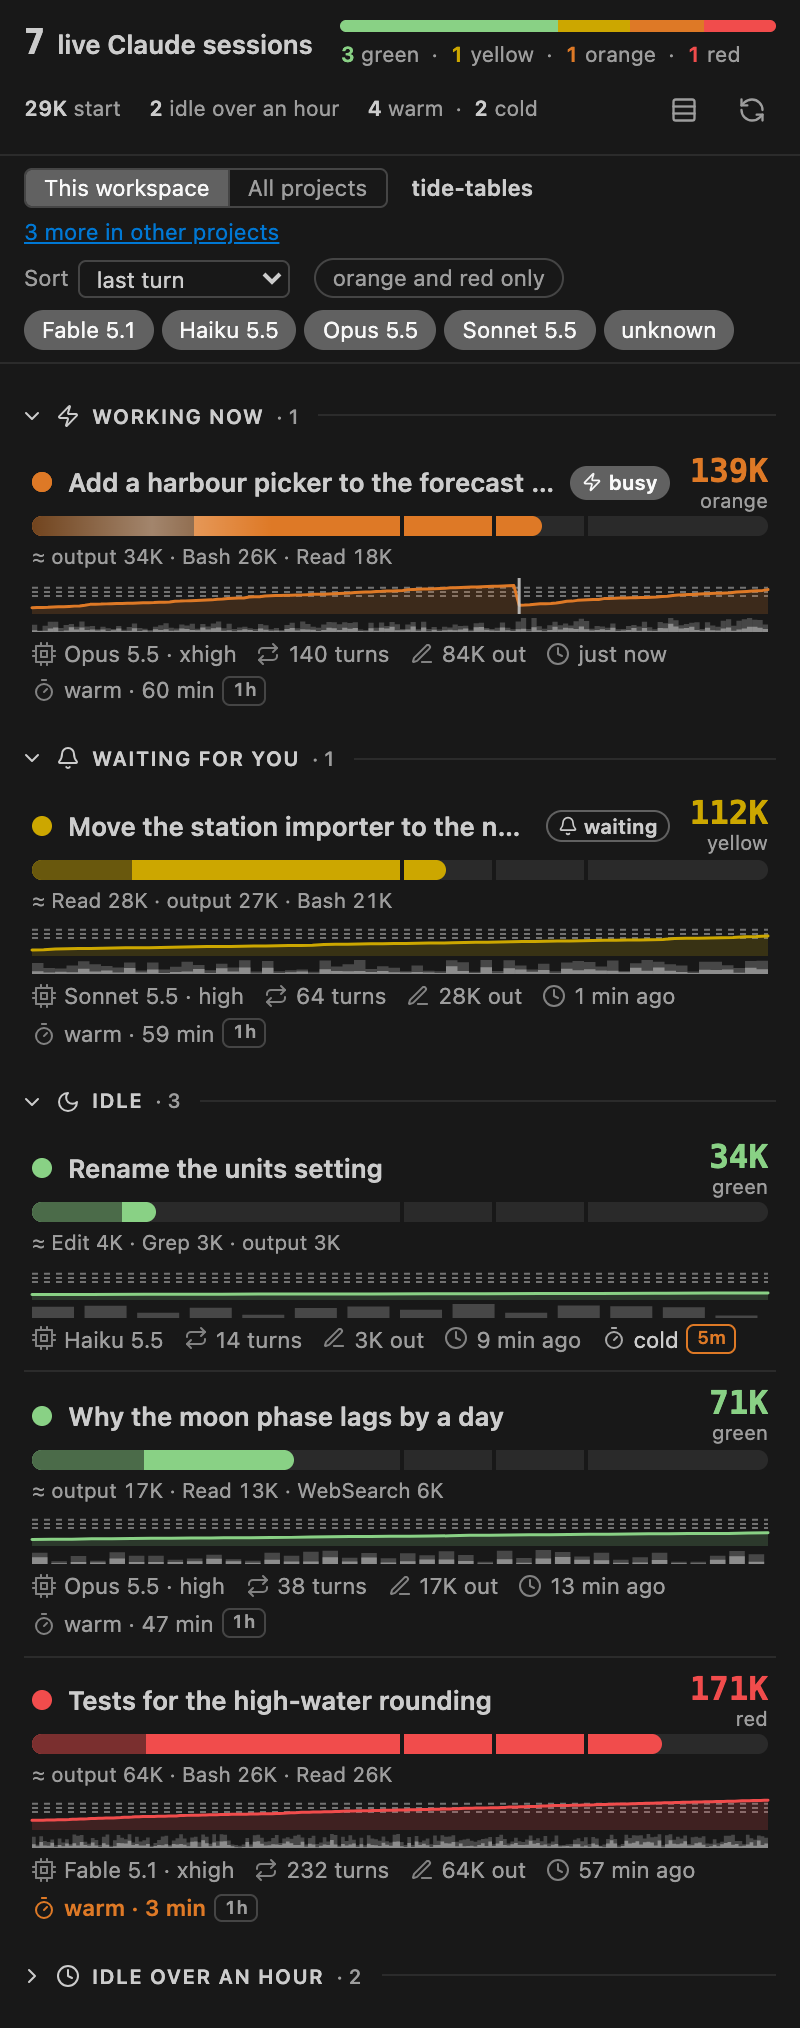
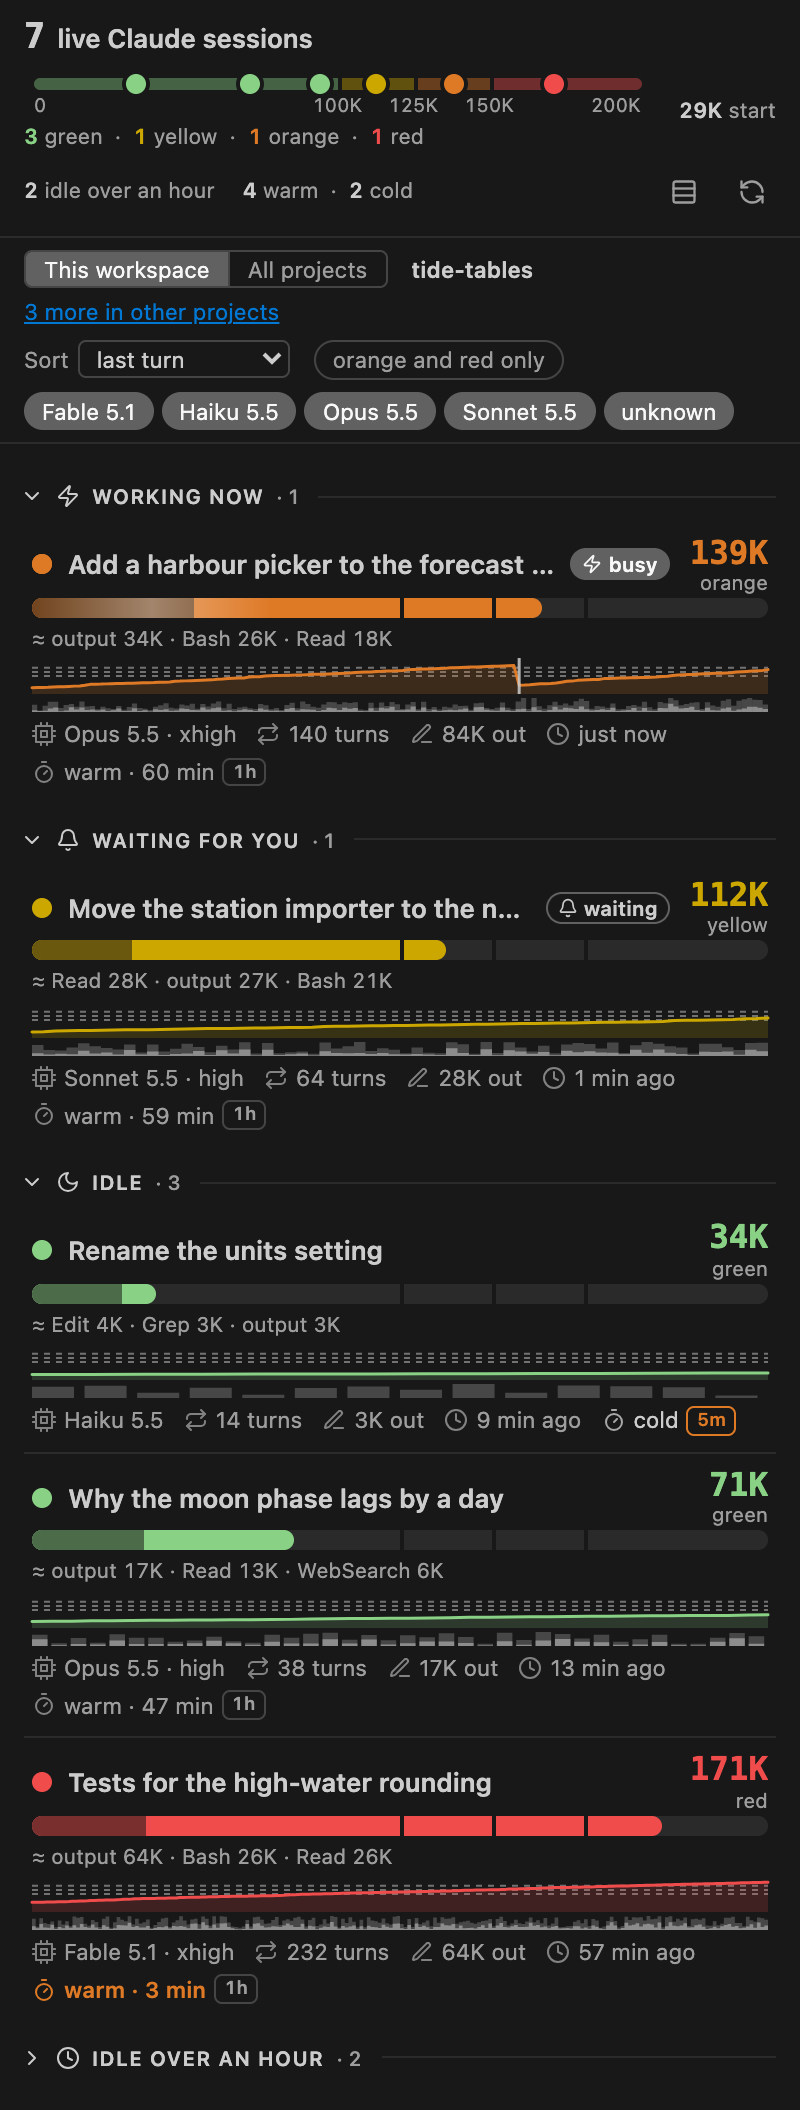
#54 The header shows the zones as a 0–200K scale with each listed session marked on it
The header's meter counted sessions per zone with widths that were shares of sessions, so the panel never showed
where the zones begin and end; the limits were only in a row bar's tooltip and the detail view. The meter bar is
replaced by a scale strip: the row bar's 0–200K with each zone as a muted band at its true width, the limits
labelled under it, and a dot per listed session with a known count, at its count and in its zone colour (a count
above 200K sits at the end over a hatched end). A band's tooltip gives the zone's range and its advice, which the
core now sends with the list as zoneAdvice; a dot's names the session and its count. The dots follow the scope,
not the view's filters, like every header counter. The strip is one image to assistive technology, its label
naming the limits and the counts per zone.

The meter had a fixed min-width narrower than its nowrap legend, so in the sidebar the start median drew over
"1 red". Without it the item is at least as wide as its legend and the counters wrap instead. The labels drop
every second one a row under about 280 px, and the strip stops growing at 520 px.

Version 0.22.0.

Changed region(s): [[0.0312, 0.0, 0.9688, 0.9941], [0.3438, 0.963, 0.375, 0.9941]]

diff --git a/panel.html b/panel.html
@@ -22,14 +22,14 @@
        a third-opaque orange that reads brown over a dark side bar. Halfway between the theme's yellow and red instead. */
     --kx-orange: color-mix(in srgb, var(--kx-yellow) 50%, var(--kx-red));
     --kx-red: var(--vscode-charts-red, #cf222e);
-    /* … and for fills (dot, context bar, curve, meter segments), so text and fill can differ per use.
+    /* … and for fills (dot, context bar, curve, zone scale), so text and fill can differ per use.
        Every zone in ZONES below has a pair --kx-<zone> / --kx-<zone>-fill; adding a zone adds a pair here. */
     --kx-green-fill: var(--vscode-charts-green, var(--kx-green));
     --kx-yellow-fill: var(--vscode-charts-yellow, var(--kx-yellow));
     --kx-orange-fill: color-mix(in srgb, var(--kx-yellow-fill) 50%, var(--kx-red-fill));
     --kx-red-fill: var(--vscode-charts-red, var(--kx-red));
     --kx-grid: var(--vscode-charts-lines, color-mix(in srgb, var(--kx-muted) 55%, transparent)); /* limit lines, marks */
-    --kx-track: color-mix(in srgb, var(--kx-fg) 10%, transparent); /* the track behind the bar and the meter */
+    --kx-track: color-mix(in srgb, var(--kx-fg) 10%, transparent); /* the track behind the bar */
     --kx-badge-bg: var(--vscode-badge-background, var(--vscode-focusBorder, #0969da));
     --kx-badge-fg: var(--vscode-badge-foreground, #ffffff);
     --kx-heading: var(--vscode-sideBarSectionHeader-foreground, var(--kx-muted));
@@ -47,7 +47,7 @@
     container-type: inline-size; /* the layout below follows the panel's width, not the window's */
   }
 
-  /* ── Header: the count, the zone meter and the counters ── */
+  /* ── Header: the count, the zone scale and the counters ── */
   header {
     display: flex; flex-wrap: wrap; align-items: center; gap: 8px 14px;
     padding: 10px 12px; border-bottom: 1px solid var(--kx-border);
@@ -67,14 +67,35 @@
   .kx-toggle[aria-pressed="true"] { color: var(--kx-fg); background: var(--kx-row-hover); border-color: var(--kx-border-strong); }
   .kx-refresh[aria-busy="true"] svg { animation: kx-spin 0.8s linear infinite; } /* spins until the next list arrives */
   @keyframes kx-spin { to { transform: rotate(360deg); } }
-  /* one segment per zone, width = that zone's share of the sessions with a known zone; the legend repeats the numbers */
-  .kx-meter { flex: 1 1 160px; min-width: 140px; display: flex; flex-direction: column; gap: 4px; }
-  .kx-meter-bar { display: flex; height: 6px; border-radius: 3px; overflow: hidden; background: var(--kx-track); }
-  .kx-meter-bar span { display: block; height: 100%; background: var(--kx-zone-fill, var(--kx-muted)); }
-  .kx-meter-leg { display: flex; font-size: 0.82em; font-variant-numeric: tabular-nums; color: var(--kx-muted); white-space: nowrap; }
+  /* The zone scale: the row bar's 0–200K with each zone as a band at its true width, the limits labelled under it, and a
+     dot per listed session at its count; the legend counts the sessions per zone. No fixed min-width: the item is at
+     least as wide as its legend, so the counters beside it wrap to the next line instead of drawing over it. */
+  .kx-meter { flex: 1 1 240px; max-width: 520px; display: flex; flex-direction: column; gap: 3px; } /* at full width a wider strip only spreads the dots */
+  /* padded by half a dot, so a dot at 0 or at the end stays inside the header */
+  .kx-zscale { container-type: inline-size; padding: 0 5px; }
+  /* the dots sit over the track, which clips the bands and the hatched end to its rounded corners */
+  .kx-zbands { position: relative; height: 6px; margin: 3px 0; }
+  .kx-ztrack { position: relative; display: flex; height: 100%; border-radius: 3px; overflow: hidden; }
+  /* the bands are muted so a dot in its own zone's colour stands out on them; a gap at every limit, as on the row bar */
+  .kx-zband { height: 100%; width: calc(var(--w) * 1%); background: color-mix(in srgb, var(--kx-zone-fill, var(--kx-muted)) 40%, var(--kx-bg)); }
+  .kx-zband + .kx-zband { border-left: 2px solid var(--kx-bg); }
+  .kx-zmark {
+    position: absolute; top: 50%; left: calc(var(--t) * 1%); width: 10px; height: 10px; border-radius: 50%;
+    transform: translate(-50%, -50%); background: var(--kx-zone-fill, var(--kx-muted)); box-shadow: 0 0 0 2px var(--kx-bg);
+  }
+  .kx-zlabels { position: relative; height: 1em; font-size: 0.74em; line-height: 1; color: var(--kx-muted); font-variant-numeric: tabular-nums; }
+  .kx-zlabels span { position: absolute; top: 0; left: calc(var(--t) * 1%); transform: translateX(-50%); white-space: nowrap; }
+  .kx-zlabels span:first-child { transform: none; }
+  .kx-zlabels span:last-child { transform: translateX(-100%); }
+  /* 100K, 125K and 150K sit 12.5 % apart and "125K" is about 26 px wide; under about 280 px every second label drops a row */
+  @container (max-width: 279px) {
+    .kx-zlabels { height: 2em; }
+    .kx-zlabels span:nth-child(even) { top: 1em; }
+  }
+  .kx-meter-leg { display: flex; flex-wrap: wrap; font-size: 0.82em; font-variant-numeric: tabular-nums; color: var(--kx-muted); white-space: nowrap; }
   .kx-meter-leg span + span::before { content: "·"; margin: 0 6px; }
   .kx-meter-leg b { font-weight: 600; color: var(--kx-zone-text, inherit); }
-  /* the prompt-cache counters: warm and cold, beside the zone legend */
+  /* the prompt-cache counters: warm and cold, beside the zone scale */
   .kx-cache-counts { font-size: 0.82em; font-variant-numeric: tabular-nums; color: var(--kx-muted); white-space: nowrap; display: inline-flex; align-items: center; }
   .kx-cache-counts b { font-weight: 600; color: var(--kx-fg); }
   .kx-cache-counts span + span::before { content: "·"; margin: 0 6px; }
@@ -394,7 +415,10 @@
   <h1><span class="kx-n" data-testid="count" aria-live="polite">0</span> live Claude sessions</h1>
   <span class="kx-showing" data-testid="showing" hidden></span>
   <div class="kx-meter" data-testid="zones">
-    <div class="kx-meter-bar" role="img" aria-label="no sessions"></div>
+    <div class="kx-zscale" data-testid="zone-scale" role="img" aria-label="no sessions">
+      <div class="kx-zbands"><div class="kx-ztrack"></div></div>
+      <div class="kx-zlabels"></div>
+    </div>
     <div class="kx-meter-leg"></div>
   </div>
   <span class="kx-start-median" data-testid="start-median" hidden><b></b> start</span>
@@ -442,7 +466,10 @@
   const scopeMoreEl = document.querySelector('[data-testid="scope-more"]');
   const errorsEl = document.querySelector('[data-testid="errors"]');
   const listEl = document.querySelector('[data-testid="list"]');
-  const meterBarEl = document.querySelector(".kx-meter-bar");
+  const zoneScaleEl = document.querySelector('[data-testid="zone-scale"]');
+  const zoneBandsEl = document.querySelector(".kx-zbands");
+  const zoneTrackEl = document.querySelector(".kx-ztrack");
+  const zoneLabelsEl = document.querySelector(".kx-zlabels");
   const meterLegEl = document.querySelector(".kx-meter-leg");
   const cacheWarmEl = document.querySelector('[data-testid="cache-warm"]');
   const cacheColdEl = document.querySelector('[data-testid="cache-cold"]');
@@ -524,7 +551,7 @@
   }
 
   // ── The zones and the scale, as data. The core decides a session's zone (core.cjs zone()); this list
-  // orders the zones in the meter and the legend, names them, and picks the colour pair --kx-<zone> (text)
+  // orders the zones in the zone scale and its legend, names them, and picks the colour pair --kx-<zone> (text)
   // and --kx-<zone>-fill (fills) defined in the style above. LIMITS are the boundaries drawn as dashed lines
   // on the curve, gaps on the context bar and labels on the axis; SCALE is the full width of the bar.
   // A new zone is one entry here, one limit there and one colour pair in the style. ─────────────────
@@ -1588,16 +1615,51 @@
     return `${n === 1 ? "the 1 session" : `the ${n} sessions`} ${where}`;
   }
 
+  /** Where a zone runs, from LIMITS: "below 100K", "100K–125K", "above 150K". */
+  function zoneRange(i) {
+    if (i === 0) return `below ${tokensText(LIMITS[0])}`;
+    if (i >= LIMITS.length) return `above ${tokensText(LIMITS[LIMITS.length - 1])}`;
+    return `${tokensText(LIMITS[i - 1])}–${tokensText(LIMITS[i])}`;
+  }
+
+  /**
+   * The header's zone scale: the bands from 0 to SCALE split at LIMITS, the limits labelled, a dot per listed
+   * session with a known count (in the scope, before the view's filters, like every header counter), and the
+   * legend with the count per zone. A band's tooltip says what applies there (the core's zoneAdvice).
+   */
   function renderMeter(zoneCounts, data) {
     const counts = ZONES.map((z) => [z, Number.isFinite(zoneCounts[z]) ? zoneCounts[z] : 0]);
     const known = counts.reduce((sum, [, n]) => sum + n, 0);
-    meterBarEl.textContent = "";
+    const advice = data.zoneAdvice || {};
+    zoneTrackEl.textContent = "";
+    zoneBandsEl.replaceChildren(zoneTrackEl);
+    zoneLabelsEl.textContent = "";
     meterLegEl.textContent = "";
-    meterBarEl.setAttribute("aria-label", known ? counts.map(([z, n]) => `${n} ${ZONE_NAME[z]}`).join(", ") : "no sessions with a known zone");
+    const ranges = ZONES.map((z, i) => `${ZONE_NAME[z]} ${zoneRange(i)}`);
+    zoneScaleEl.setAttribute("aria-label", `Zones on a ${SCALE_TEXT} scale: ${listText(ranges)}. ${known ? counts.map(([z, n]) => `${n} ${ZONE_NAME[z]}`).join(", ") : "No sessions with a known zone"}`);
+    const edges = [0, ...LIMITS, SCALE];
+    ZONES.forEach((z, i) => {
+      const band = zoned(el("span", "kx-zband"), z);
+      band.dataset.testid = `band-${z}`;
+      band.style.setProperty("--w", pct((edges[i + 1] - edges[i]) / SCALE));
+      band.title = `${ZONE_NAME[z]} zone: ${zoneRange(i)}${advice[z] ? ` · ${advice[z]}` : ""}`;
+      zoneTrackEl.appendChild(band);
+    });
+    const marked = allSessions(data).filter((s) => Number.isFinite(s.tokens));
+    if (marked.some((s) => s.tokens > SCALE)) zoneTrackEl.appendChild(el("span", "kx-over"));
+    for (const s of marked) {
+      const mark = zoned(el("span", "kx-zmark"), s.zone);
+      mark.dataset.testid = "zone-mark";
+      mark.style.setProperty("--t", pct(share(s.tokens)));
+      mark.title = `${titleOf(s).text} · ${countLabel(s)}${s.tokens > SCALE ? `, over the ${tokensText(SCALE)} scale` : ""}`;
+      zoneBandsEl.appendChild(mark);
+    }
+    for (const v of edges) {
+      const label = el("span", "", tokensText(v));
+      label.style.setProperty("--t", pct(v / SCALE));
+      zoneLabelsEl.appendChild(label);
+    }
     for (const [z, n] of counts) {
-      const seg = zoned(el("span"), z);
-      seg.style.width = known ? `${pct(n / known)}%` : "0";
-      meterBarEl.appendChild(seg);
       const item = zoned(el("span"), z);
       const b = el("b", "", String(n));
       b.dataset.testid = `zone-${z}`;

diff --git a/test/panel.test.js b/test/panel.test.js
@@ -79,7 +79,7 @@ function list(sessions, { all = false, full = false, errors = [], workspaceFolde
 }
 
 describe("panel: the list", () => {
-  it("posts ready at start, and a list renders its count, its zone meter and its rows in the core's order", () => {
+  it("posts ready at start, and a list renders its count, its zone counts and its rows in the core's order", () => {
     const p = panel();
     expect(p.posted).toEqual([{ type: "ready" }]);
     p.send(list([
@@ -192,6 +192,54 @@ describe("panel: the list", () => {
     p.send(list([]));
     expect(p.$("count").textContent).toBe("0");
     expect(p.$("list").textContent).toBe("No live Claude sessions");
+  });
+});
+
+describe("panel: the zone scale", () => {
+  const marks = (p) => p.$$("zone-mark").map((m) => [m.style.getPropertyValue("--t"), m.dataset.zone]);
+
+  it("draws the zones at their true widths on 0–200K, the limits labelled, and says what applies in each", () => {
+    const p = panel();
+    p.send(list([session("a")]));
+    expect(["green", "yellow", "orange", "red"].map((z) => p.$(`band-${z}`).style.getPropertyValue("--w"))).toEqual(["50", "12.5", "12.5", "25"]);
+    expect([...p.doc.querySelectorAll(".kx-zlabels span")].map((s) => s.textContent)).toEqual(["0", "100K", "125K", "150K", "200K"]);
+    expect(p.$("band-green").title).toBe("green zone: below 100K");
+    expect(p.$("band-yellow").title).toBe("yellow zone: 100K–125K · Plan to break at the next phase boundary.");
+    expect(p.$("band-red").title).toMatch(/^red zone: above 150K · Do not start a new phase/);
+  });
+
+  it("marks every session with a known count at its count in its zone colour, above the scale at the end", () => {
+    const p = panel();
+    p.send(list([session("a", { tokens: 39000 }), session("b", { tokens: 160000, title: "Big one" }), session("c", { tokens: null, turns: 0 })]));
+    expect(marks(p)).toEqual([["19.5", "green"], ["80", "red"]]);
+    expect(p.$$("zone-mark")[1].title).toBe("Big one · 160K tokens, zone red");
+    expect(p.doc.querySelector(".kx-ztrack .kx-over")).toBeNull();
+    p.send(list([session("a", { tokens: 250000 })]));
+    expect(marks(p)).toEqual([["100", "red"]]);
+    expect(p.$$("zone-mark")[0].title).toMatch(/over the 200K scale$/);
+    expect(p.doc.querySelector(".kx-ztrack .kx-over")).not.toBeNull();
+  });
+
+  it("follows the scope, and not the view's filters, as the counts do", () => {
+    const p = panel();
+    const mine = session("a", { tokens: 39000 }), other = session("b", { tokens: 130000, cwd: OTHER });
+    p.send(list([mine, other], { workspaceFolders: [MINE] }));
+    expect(marks(p)).toEqual([["19.5", "green"]]);
+    p.send(list([mine, other], { workspaceFolders: [MINE], all: true }));
+    expect(marks(p).sort()).toEqual([["19.5", "green"], ["65", "orange"]]);
+    expect(p.$("zone-orange").textContent).toBe("1");
+    p.$("filter-hot").click(); // hides the green row, not its mark
+    expect(marks(p)).toHaveLength(2);
+  });
+
+  it("is one image to assistive technology, its label naming the limits and the counts", () => {
+    const p = panel();
+    p.send(list([session("a", { tokens: 39000 }), session("b", { tokens: 160000 })]));
+    expect(p.$("zone-scale").getAttribute("role")).toBe("img");
+    expect(p.$("zone-scale").getAttribute("aria-label")).toBe(
+      "Zones on a 0–200K scale: green below 100K, yellow 100K–125K, orange 125K–150K and red above 150K. 1 green, 0 yellow, 0 orange, 1 red");
+    p.send(list([]));
+    expect(p.$("zone-scale").getAttribute("aria-label")).toMatch(/\. No sessions with a known zone$/);
   });
 });
 

diff --git a/test/core.test.js b/test/core.test.js
@@ -601,6 +601,12 @@ describe("buildSessions", () => {
     expect(K.buildSessions({ registry, transcripts, now: NOW, workspaceFolders: ["c:\\Develop\\elsewhere"], all: false })).toMatchObject({ count: 0, hiddenCount: 5, workspaceNames: ["elsewhere"] });
   });
 
+  it("zoneAdvice carries the advice for every zone but green, the same the sessions get, also for an empty list", () => {
+    const { zoneAdvice } = K.buildSessions({ registry: [], now: NOW });
+    expect(Object.keys(zoneAdvice)).toEqual(["yellow", "orange", "red"]);
+    expect(zoneAdvice.orange).toBe(K.contextFacts({ zone: "orange" }).advice);
+  });
+
   it("per session: zone, short model name, time since the last turn, dimming after one hour and busy", () => {
     const r = K.buildSessions({ registry, transcripts, now: NOW, workspaceFolders: [MINE], all: false });
     const [busy, fresh, old, without] = r.sessions;

diff --git a/README.md b/README.md
@@ -136,7 +136,7 @@ side of the window, or right-click it → **Move To** → **Secondary Side Bar**
 ## A tour
 
 <p align="center">
-  <img src="media/list.png" width="380" alt="The panel in the sidebar: a header with the zone meter, the scope switch, and the sessions under Working now, Waiting for you and Idle">
+  <img src="media/list.png" width="380" alt="The panel in the sidebar: a header with the zone scale, the scope switch, and the sessions under Working now, Waiting for you and Idle">
   &nbsp;
   <img src="media/compact.png" width="380" alt="The same list as compact rows: each session as its title, count and context bar">
 </p>
@@ -163,11 +163,15 @@ next phase boundary, the whole curve with every compaction, where the context we
 Every session is in a zone by its token count: green below 100K, yellow below 125K, orange up to 150K, red
 above. The zones are absolute token counts, not a share of the model's window: they follow Matt Pocock's
 smart zone and dumb zone, where the dumb zone "commonly begins around 125K-150K tokens". They warn about
-quality, not about the window limit.
+quality, not about the window limit. The header draws them, so the limits are in view before any row.
 
 ### Header
 
-The count of live sessions and a zone meter (how many sessions are in each zone); the warm and cold prompt
+The count of live sessions and the zone scale: the row bar's 0–200K with each zone as a band at its true width,
+the limits labelled under it, and a dot per listed session at its count, in its zone colour, so you see at once
+where the limits are and how close each session is to the next one. Point at a band for what to do at the next
+phase boundary in that zone, at a dot for the session and its count; under the scale, how many sessions are in
+each zone. Then the warm and cold prompt
 caches; the median start of the sessions that began fresh, so a CLAUDE.md that grew shows at a glance; and
 "3 idle over an hour" when there are such sessions. While a filter hides sessions it says "showing 4 of 10".
 At the right end, the compact switch and the refresh button: refresh reads the registry and every transcript
